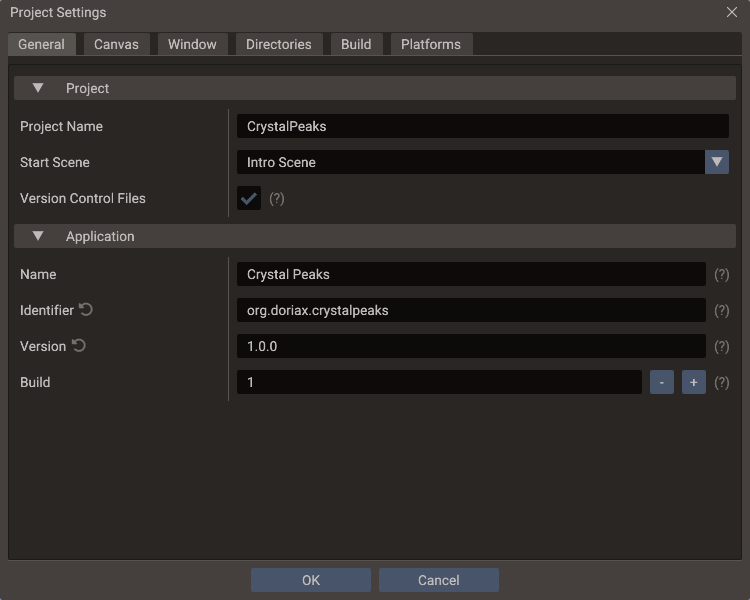
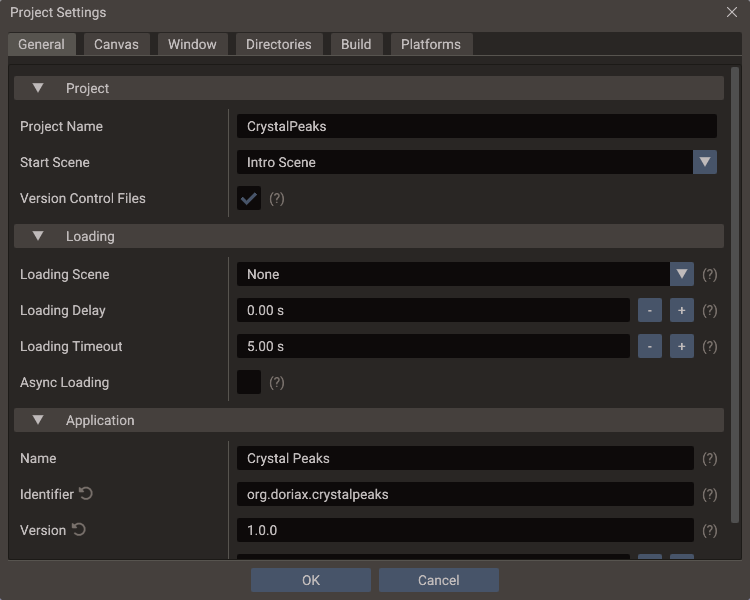
Doc loading settings, loading holds and onSceneLoaded

diff --git a/docs/reference/classes/scenemanager.md b/docs/reference/classes/scenemanager.md
@@ -31,8 +31,12 @@ Two operations change what is on screen:
 | static uint32_t | [getLoadingSceneId](#setloadingscene-getloadingsceneid) | C++ \| Lua (`loadingSceneId`) |
 | static void | [setLoadingDelay](#setloadingdelay-getloadingdelay) | C++ \| Lua (`loadingDelay`) |
 | static float | [getLoadingDelay](#setloadingdelay-getloadingdelay) | C++ \| Lua (`loadingDelay`) |
+| static void | [setLoadingTimeout](#setloadingtimeout-getloadingtimeout) | C++ \| Lua (`loadingTimeout`) |
+| static float | [getLoadingTimeout](#setloadingtimeout-getloadingtimeout) | C++ \| Lua (`loadingTimeout`) |
 | static bool | [isLoading](#isloading-getloadingprogress) | C++ \| Lua (`loading`) |
 | static float | [getLoadingProgress](#isloading-getloadingprogress) | C++ \| Lua (`loadingProgress`) |
+| static bool | [holdLoading](#holdloading-releaseloading) | C++ \| Lua |
+| static void | [releaseLoading](#holdloading-releaseloading) | C++ \| Lua |
 | static bool | [addChildScene](#addchildscene-removechildscene) | C++ \| Lua |
 | static bool | [removeChildScene](#addchildscene-removechildscene) | C++ \| Lua |
 | static uint32_t | [getSceneId](#getsceneid-getscenename) | C++ \| Lua |
@@ -229,17 +233,25 @@ loading delay included. Lua reads it as the `SceneManager.loadPending` property.
 
 Sets a registered scene stack as the **loading screen** that [`loadScene`](#loadscene)
 shows over every transition. An empty name or `0` turns it off. Returns `false` if the
-scene is unknown.
+scene is unknown. Exported games and the editor's Play set it from
+[Project Settings → General → Loading](../../editor/project-settings.md#loading), so most
+projects never call it.
 
 A transition then runs in three steps:
 
 1. The loading scene is added **on top** of the running scenes, which keep running
-   underneath it.
+   underneath it. While it is shown, the scenes below it get no UI input: their buttons
+   cannot be pressed and their text fields get no keys. Pointer releases still reach them,
+   so nothing stays pressed. Engine input events such as `Engine::onKeyDown` still fire.
 2. Once it is drawn with its resources loaded and the
    [loading delay](#setloadingdelay-getloadingdelay) has passed, the old stack is replaced.
    The game freezes while the new scenes are built, with the loading scene on screen.
-3. The loading scene is removed once every mesh, UI element and sky of the new stack is
-   loaded, or after 5 seconds without progress, with a warning.
+3. When every mesh, UI element and sky of the new stack is loaded,
+   [`Engine::onSceneLoaded`](engine.md#onsceneloaded) fires and the loading scene is
+   removed, unless a [hold](#holdloading-releaseloading) keeps it up to fade out.
+
+A load that makes no progress for the [loading timeout](#setloadingtimeout-getloadingtimeout)
+stops waiting.
 
 It is kept alive between transitions, so its scripts keep their state. Their `onUpdate`
 also runs while it is off screen, so check [`isLoading`](#isloading-getloadingprogress)
@@ -274,19 +286,33 @@ when the scenes are deleted.
 
 ---
 
+### setLoadingTimeout / getLoadingTimeout
+
+* static void **setLoadingTimeout**(float seconds)
+* static float **getLoadingTimeout**()
+
+Seconds a load waits without progress before it gives up. Default `5`. It applies to the
+loading scene's own resources before the switch, and to the new stack after it, which logs
+a warning naming what did not load. The clock restarts every time another resource
+finishes, so a slow load that keeps moving is never cut short.
+
+---
+
 ### isLoading / getLoadingProgress
 
 * static bool **isLoading**()
 * static float **getLoadingProgress**()
 
 `isLoading` is `true` from a [`loadScene`](#loadscene) call until the new stack has loaded
-its resources, with or without a loading scene. A level script can wait for it before it
-starts gameplay.
+its resources and every [hold](#holdloading-releaseloading) is released, with or without a
+loading scene. It is already `true` while the new stack's scripts are constructed, and for
+the start scene too. To start gameplay once the level is ready, handle
+[`Engine::onSceneLoaded`](engine.md#onsceneloaded) instead of polling it.
 
 `getLoadingProgress` is the share of the new stack's meshes, UI elements and skies that
-finished loading: `0` until the old stack is replaced, `1` when done. It only moves across
-several frames with [`Engine::setAsyncLoading(true)`](engine.md#asyncloading); otherwise
-it jumps from `0` to `1`.
+finished loading: `0` until the old stack is replaced, `1` once it has loaded (also after a
+timeout, and while holds keep the load open). It only moves across several frames with
+[async loading](engine.md#asyncloading); otherwise it jumps from `0` to `1`.
 
 === "Lua"
     ```lua
@@ -301,6 +327,69 @@ it jumps from `0` to `1`.
     void LoadingScreen::onUpdate() {
         if (!SceneManager::isLoading()) return;
         barFill->setWidth((unsigned int)(360 * SceneManager::getLoadingProgress()));
+    }
+    ```
+
+---
+
+### holdLoading / releaseLoading
+
+* static bool **holdLoading**()
+* static void **releaseLoading**()
+
+`holdLoading` keeps the current load open after the new stack has loaded: the loading
+scene stays on screen and [`isLoading`](#isloading-getloadingprogress) stays `true` until
+every hold is released. Returns `false`, and holds nothing, when no load is running.
+Each successful `holdLoading` needs one `releaseLoading`.
+
+The usual use is a fade out: a script on the loading scene holds the load when
+[`Engine::onSceneLoaded`](engine.md#onsceneloaded) fires, lowers its alpha, then releases
+it. The new scene's scripts have already started by then, so the level is ready behind the
+fade. A hold has no timeout, so release it in the script's destructor too.
+
+=== "Lua"
+    ```lua
+    function LoadingScreen:init()
+        RegisterEngineEvent(self, "onUpdate")
+        RegisterEngineEvent(self, "onSceneLoaded")
+    end
+
+    function LoadingScreen:onSceneLoaded()
+        -- only when this loading scene is on screen
+        if Engine.isSceneRunning(self.scene) and SceneManager.holdLoading() then
+            self.fading = 0
+        end
+    end
+
+    function LoadingScreen:onUpdate()
+        if not self.fading then return end
+        self.fading = self.fading + Engine.deltatime
+        self.backdrop.alpha = math.max(0, 1 - self.fading / 0.3)
+        if self.fading >= 0.3 then
+            self.fading = nil
+            SceneManager.releaseLoading()
+        end
+    end
+    ```
+
+=== "C++"
+    ```cpp
+    void LoadingScreen::onSceneLoaded() {
+        // only when this loading scene is on screen
+        if (Engine::isSceneRunning(scene) && SceneManager::holdLoading()) {
+            holding = true;
+            fadeTimer = 0.0f;
+        }
+    }
+
+    void LoadingScreen::onUpdate() {
+        if (!holding) return;
+        fadeTimer += Engine::getDeltatime();
+        backdrop->setAlpha(std::max(0.0f, 1.0f - fadeTimer / 0.3f));
+        if (fadeTimer >= 0.3f) {
+            holding = false;
+            SceneManager::releaseLoading();
+        }
     }
     ```
 

diff --git a/docs/manual/threading-and-async-loading.md b/docs/manual/threading-and-async-loading.md
@@ -142,20 +142,25 @@ For web, always test async loading with pthreads enabled in your deployment envi
 
 ## Loading screens
 
-`SceneManager` shows a loading screen for you. Register a UI scene once and every
-`loadScene` goes through it:
+`SceneManager` shows a loading screen for you. Pick a UI scene as the **Loading Scene**
+in [Project Settings → General → Loading](../editor/project-settings.md#loading), turn on
+**Async Loading** there, and every `loadScene` goes through it:
 
-1. The loading scene appears on top of the running scene, which keeps running below it.
+1. The loading scene appears on top of the running scene, which keeps running below it but
+   no longer gets UI input.
 2. After the loading delay, the old scene is replaced behind it. The new scene's entities
    and scripts are built on the main thread, so the game freezes for that moment with the
    loading scene on screen.
 3. With async loading on, the new scene's textures, sounds and models stream in on worker
-   threads while the loading scene keeps animating. It is removed once they are loaded.
+   threads while the loading scene keeps animating. Once they are loaded,
+   `Engine.onSceneLoaded` fires and the loading scene is removed, or fades out first if a
+   script [holds the load](../reference/classes/scenemanager.md#holdloading-releaseloading).
+
+The same settings can be made from code, at startup:
 
 === "Lua"
 
     ```lua
-    -- once, at startup
     Engine.asyncLoading = true
     SceneManager.setLoadingScene("Loading")
     SceneManager.loadingDelay = 0.3
@@ -170,7 +175,6 @@ For web, always test async loading with pthreads enabled in your deployment envi
 === "C++"
 
     ```cpp
-    // once, at startup
     Engine::setAsyncLoading(true);
     SceneManager::setLoadingScene("Loading");
     SceneManager::setLoadingDelay(0.3f);
@@ -182,8 +186,9 @@ For web, always test async loading with pthreads enabled in your deployment envi
     }
     ```
 
-A level script can also wait for `SceneManager.loading` to become `false` before it starts
-gameplay. See
+A level script starts gameplay in
+[`Engine.onSceneLoaded`](../reference/classes/engine.md#onsceneloaded): the level is loaded,
+and the loading scene still covers it while it places the player and camera. See
 [SceneManager.setLoadingScene](../reference/classes/scenemanager.md#setloadingscene-getloadingsceneid).
 
 ## See also

diff --git a/docs/reference/classes/engine.md b/docs/reference/classes/engine.md
@@ -111,6 +111,7 @@ Control engine properties and define defaults used across the whole project. `En
 | void() | [onPause](#onpause) | C++ \| Lua |
 | void() | [onResume](#onresume) | C++ \| Lua |
 | void() | [onShutdown](#onshutdown) | C++ \| Lua |
+| void() | [onSceneLoaded](#onsceneloaded) | C++ \| Lua |
 | void(int,float,float) | [onTouchStart](#ontouchstart) | C++ \| Lua |
 | void(int,float,float) | [onTouchEnd](#ontouchend) | C++ \| Lua |
 | void(int,float,float) | [onTouchMove](#ontouchmove) | C++ \| Lua |
@@ -804,6 +805,46 @@ Called when the application returns to the foreground after a pause.
 * Callback: `void()`
 
 Called when the application is closing. Use to flush saves or clean up persistent state.
+
+---
+
+### onSceneLoaded
+
+* `static FunctionSubscribe<void()> onSceneLoaded`
+* Callback: `void()`
+
+Called once a scene stack loaded by [`SceneManager::loadScene`](scenemanager.md#loadscene)
+has loaded its resources, and once for the start scene, both in exported games and in the
+editor's Play. It fires before the [loading scene](scenemanager.md#setloadingscene-getloadingsceneid)
+closes, so a level can place its player and camera behind it. `SceneManager::isLoading()`
+is still `true` here, and a loading scene can [hold](scenemanager.md#holdloading-releaseloading)
+the load to fade out. `addChildScene` does not fire it.
+
+=== "Lua"
+    ```lua
+    function Level:init()
+        RegisterEngineEvent(self, "onSceneLoaded")
+    end
+
+    function Level:onSceneLoaded()
+        self:startLevel()
+    end
+    ```
+
+=== "C++"
+    ```cpp
+    Level::Level(Scene* scene, Entity entity): ScriptBase(scene, entity) {
+        REGISTER_ENGINE_EVENT(onSceneLoaded);
+    }
+
+    Level::~Level() {
+        UNREGISTER_ENGINE_EVENT(onSceneLoaded);
+    }
+
+    void Level::onSceneLoaded() {
+        startLevel();
+    }
+    ```
 
 ---
 

diff --git a/docs/manual/scenes-and-entities.md b/docs/manual/scenes-and-entities.md
@@ -280,9 +280,10 @@ screens.
 
 ### Show a loading screen
 
-Building a large scene takes a moment. Register a UI scene as the loading screen and
+Building a large scene takes a moment. Pick a UI scene as the **Loading Scene** in
+[Project Settings → General → Loading](../editor/project-settings.md#loading) and
 `loadScene` shows it over the old scene, replaces the old scene behind it, and removes it
-once the new scene has loaded:
+once the new scene has loaded. From code:
 
 === "Lua"
 
@@ -300,7 +301,9 @@ once the new scene has loaded:
 
 `SceneManager.loading` and `SceneManager.loadingProgress` drive its animation. Turn on
 [async loading](threading-and-async-loading.md#loading-screens) so it keeps animating while
-textures and sounds stream in.
+textures and sounds stream in. A level starts its gameplay in
+[`Engine.onSceneLoaded`](../reference/classes/engine.md#onsceneloaded), which fires once it
+has loaded, still behind the loading scene.
 
 ### Overlay a scene without leaving the current one
 
@@ -388,7 +391,7 @@ save systems:
 | `SceneManager.getCurrentSceneId()` | ID of the most recently loaded scene |
 | `SceneManager.getSceneNames()` | All registered scene names |
 | `SceneManager.getSceneId(name)` | Numeric ID for a name (`0` if unknown) |
-| `SceneManager.loading` | `true` from `loadScene` until the new scene has loaded |
+| `SceneManager.loading` | `true` from `loadScene` until the new scene has loaded and its loading scene has closed |
 
 See the [SceneManager reference](../reference/classes/scenemanager.md) for the complete
 API.

diff --git a/docs/editor/project-settings.md b/docs/editor/project-settings.md
@@ -35,6 +35,21 @@ two never disagree.
 **Version Control Files** refreshes both files whenever the project is saved, and never
 replaces one the editor did not generate — see [Version Control](version-control.md).
 
+### Loading
+
+The loading screen that `SceneManager::loadScene` shows between scenes. Exported games
+and the editor's Play apply these at startup.
+
+| Setting | Default | Effect |
+| --- | --- | --- |
+| **Loading Scene** | None | UI scene shown on top while the game switches scenes, until the new scene has loaded. Only saved scenes can be chosen |
+| **Loading Delay** | `0 s` | How long the loading scene covers the old scene before it is replaced: time for a fade in and for a click sound to finish |
+| **Loading Timeout** | `5 s` | How long a load waits without progress before it gives up |
+| **Async Loading** | Off | Exported games load textures, models and sounds on worker threads, so the loading scene keeps animating and its progress moves. The editor always loads this way. Web builds without thread support load synchronously |
+
+See [Loading screens](../manual/threading-and-async-loading.md#loading-screens) for how a
+transition runs and how the loading scene can animate its progress and fade out.
+
 ### Application
 
 One identity, shared by every platform. Each platform section can override any of these

diff --git a/docs/editor/code-editor.md b/docs/editor/code-editor.md
@@ -59,7 +59,7 @@ the **gear**, opens the menu of events a script can subscribe to:
 
 | Menu | Events |
 | --- | --- |
-| **Engine** | Frame updates (`onUpdate`, `onFixedUpdate`, `onPostUpdate`, `onDraw`) and application events (`onPause`, `onResume`, `onShutdown`, ...) |
+| **Engine** | Frame updates (`onUpdate`, `onFixedUpdate`, `onPostUpdate`, `onDraw`), application events (`onPause`, `onResume`, `onShutdown`, ...) and `onSceneLoaded` |
 | **Input** | Keyboard, mouse, touch, and gamepad events |
 | **UI**, **Button**, **Scrollbar**, **Panel**, **Text Edit**, **Action**, **Sound** | Events of that component, which the script's entity needs to have |
 | **Physics 2D**, **Physics 3D** | Contacts, sensors, body activation, and collision filters, for every body in the scene |

diff --git a/docs/manual/events.md b/docs/manual/events.md
@@ -67,6 +67,7 @@ optionally reported through a global crash handler.
 | `onPostUpdate` | `void()` | Work after regular update |
 | `onPause` / `onResume` | `void()` | App/game pause and resume |
 | `onShutdown` | `void()` | Runtime shutdown |
+| `onSceneLoaded` | `void()` | A scene loaded by `SceneManager` finished loading, before its loading scene closes |
 | `onTouchStart/End/Move` | `void(int, float, float)` | Touch identifier, x, y |
 | `onTouchCancel` | `void(int, float, float)` | One touch canceled; identifier and last recorded canvas position |
 | `onMouseDown/Up` | `void(int, float, float, int)` | Button, x, y, modifiers |
